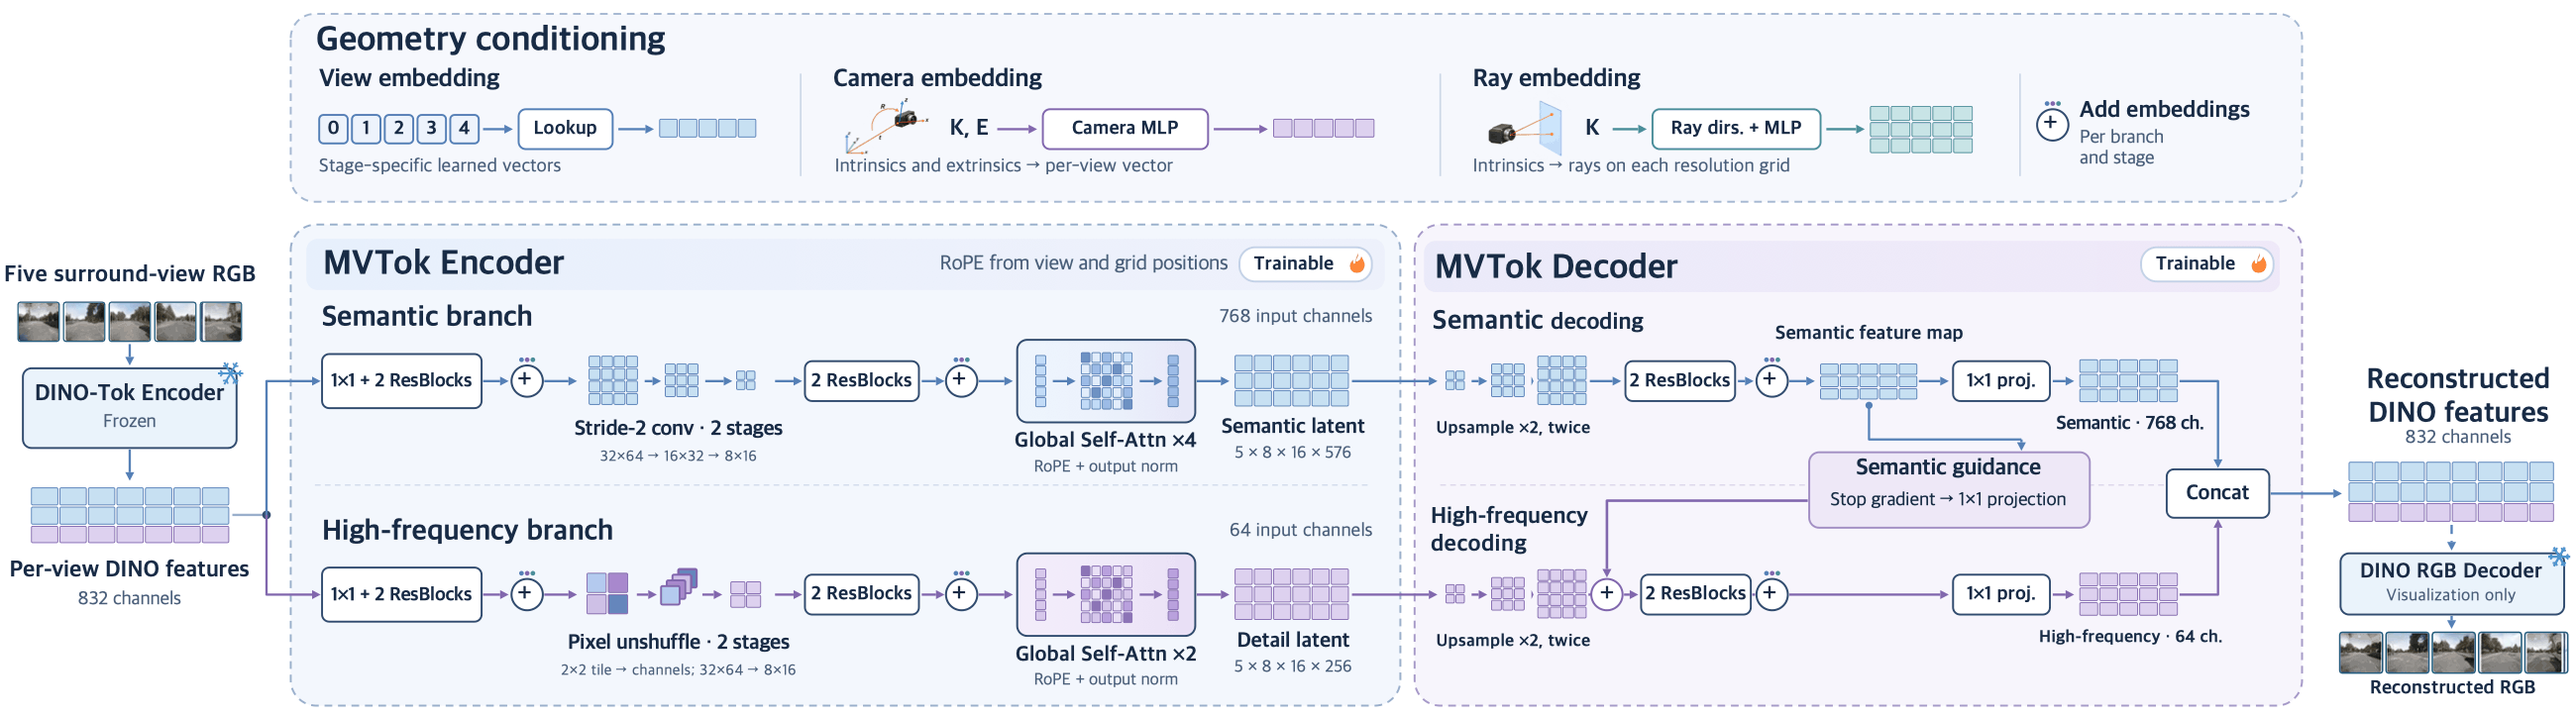
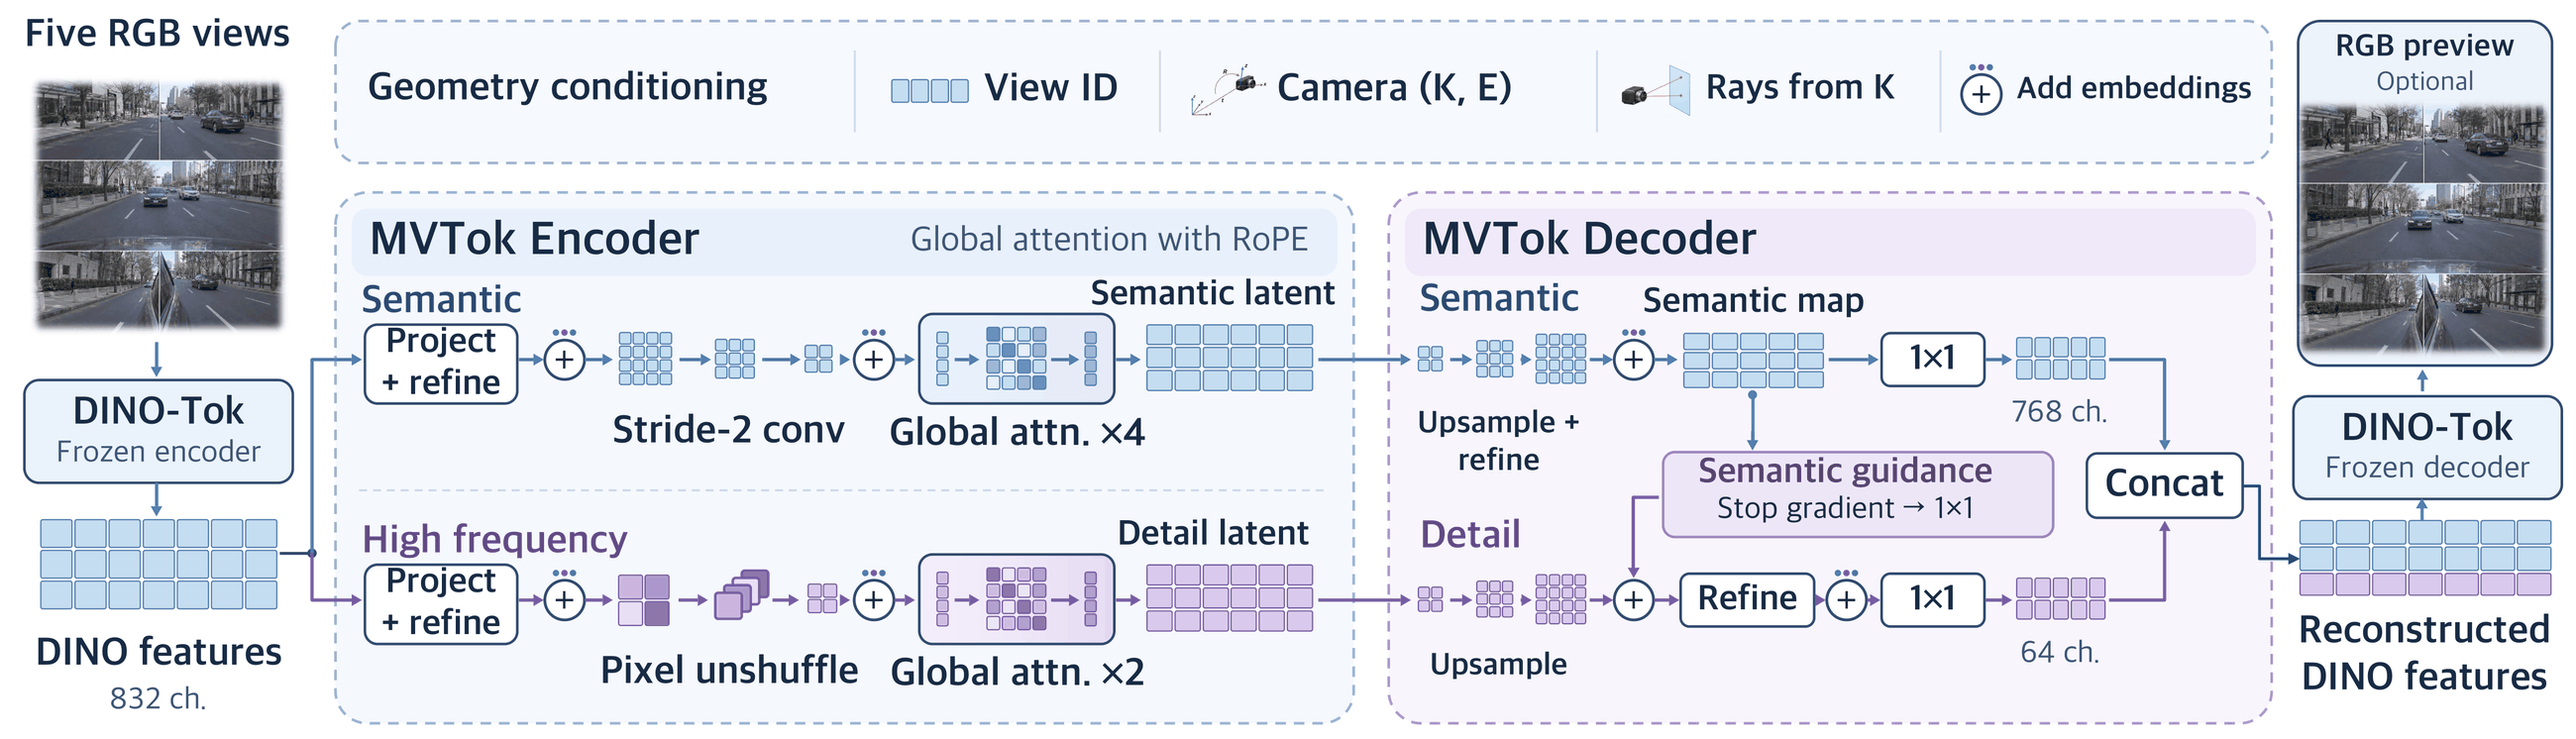
Update author credits and architecture figures, captions and mobile layout

Changed region(s): [[0.0, 0.0, 1.0, 1.0], [0.5608, 0.9697, 0.8723, 1.0], [0.0312, 0.9394, 0.0935, 0.9697]]

diff --git a/app/publication.ts b/app/publication.ts
@@ -3,34 +3,37 @@ export const paperTitle = 'Recipes for Training and Deploying World-Action Model
 export const affiliations = {
   1: 'Horizon Robotics',
   2: 'Nanjing University of Posts and Telecommunications',
-  3: 'Nankai University',
-  4: 'The Hong Kong University of Science and Technology',
-  5: 'Shanghai Innovation Institute',
-  6: 'Institut Polytechnique de Paris',
-  7: 'National University of Singapore',
-  8: 'Nanjing University',
-  9: 'Hunan University',
-  10: 'Anyverse',
-  11: 'LogicOrigin',
+  3: 'LogicOrigin',
+  4: 'Nankai University',
+  5: 'The Hong Kong University of Science and Technology',
+  6: 'Shanghai Innovation Institute',
+  7: 'Institut Polytechnique de Paris',
+  8: 'National University of Singapore',
+  9: 'Nanjing University',
+  10: 'Hunan University',
+  11: 'Anyverse',
 } as const;
 
-export type Author = { name: string; homepage?: string; affiliations: (keyof typeof affiliations)[] };
+export type Author = {
+  name: string; homepage?: string; affiliations: (keyof typeof affiliations)[];
+  role?: 'Core contributor' | 'Project leader'; coFirst?: boolean;
+};
 export const authors: Author[] = [
-  { name: 'Mingxiao Li', affiliations: [1], homepage: 'https://lmx760581375.github.io/' },
-  { name: 'Zhijian Shu', affiliations: [1, 2], homepage: 'https://garlicba.github.io/' },
-  { name: 'Jiawei Xu', affiliations: [1, 3], homepage: 'https://jiaweixu8.github.io/' },
-  { name: 'Mingkai Jia', affiliations: [1, 4], homepage: 'https://github.com/MKJia' },
-  { name: 'Alan Liang', affiliations: [1, 5], homepage: 'https://alanliangc.github.io/' },
-  { name: 'Zhizhou Zhong', affiliations: [1, 4], homepage: 'https://github.com/zzzweakman' },
-  { name: 'Shiyao Li', affiliations: [1, 6], homepage: 'https://shiyao-li.github.io/' },
-  { name: 'Dongyue Lu', affiliations: [1, 7], homepage: 'https://dylanorange.github.io/' },
-  { name: 'Liang Yue', affiliations: [1, 8], homepage: 'https://philip-2000.github.io/cv/' },
-  { name: 'Zeyuan Xu', affiliations: [9], homepage: 'https://scholar.google.com/citations?user=CSfCTQ4AAAAJ&hl=zh-CN' },
-  { name: 'Kaicheng Zhang', affiliations: [10], homepage: 'https://openreview.net/profile?id=~Kaicheng_Zhang8' },
-  { name: 'Xiao-Xiao Long', affiliations: [8], homepage: 'https://www.xxlong.site/' },
-  { name: 'Lingdong Kong', affiliations: [7], homepage: 'https://ldkong.com/' },
-  { name: 'Qian Zhang', affiliations: [1], homepage: 'https://scholar.google.com/citations?user=pCY-bikAAAAJ&hl=zh-CN' },
-  { name: 'Wei Yin', affiliations: [11], homepage: 'https://scholar.google.com/citations?user=ZIf_rtcAAAAJ&hl=en' },
+  { name: 'Mingxiao Li', affiliations: [1], role: 'Core contributor', coFirst: true, homepage: 'https://lmx760581375.github.io/' },
+  { name: 'Zhijian Shu', affiliations: [1, 2], role: 'Core contributor', coFirst: true, homepage: 'https://garlicba.github.io/' },
+  { name: 'Wei Yin', affiliations: [3], role: 'Core contributor', coFirst: true, homepage: 'https://scholar.google.com/citations?user=ZIf_rtcAAAAJ&hl=en' },
+  { name: 'Jiawei Xu', affiliations: [1, 4], role: 'Core contributor', coFirst: true, homepage: 'https://jiaweixu8.github.io/' },
+  { name: 'Mingkai Jia', affiliations: [1, 5], role: 'Core contributor', coFirst: true, homepage: 'https://github.com/MKJia' },
+  { name: 'Alan Liang', affiliations: [1, 6], role: 'Core contributor', coFirst: true, homepage: 'https://alanliangc.github.io/' },
+  { name: 'Zhizhou Zhong', affiliations: [1, 5], role: 'Core contributor', coFirst: true, homepage: 'https://github.com/zzzweakman' },
+  { name: 'Shiyao Li', affiliations: [1, 7], role: 'Core contributor', homepage: 'https://shiyao-li.github.io/' },
+  { name: 'Dongyue Lu', affiliations: [1, 8], role: 'Core contributor', homepage: 'https://dylanorange.github.io/' },
+  { name: 'Liang Yue', affiliations: [1, 9], homepage: 'https://philip-2000.github.io/cv/' },
+  { name: 'Zeyuan Xu', affiliations: [10], homepage: 'https://scholar.google.com/citations?user=CSfCTQ4AAAAJ&hl=zh-CN' },
+  { name: 'Kaicheng Zhang', affiliations: [11], homepage: 'https://openreview.net/profile?id=~Kaicheng_Zhang8' },
+  { name: 'Xiao-Xiao Long', affiliations: [9], homepage: 'https://www.xxlong.site/' },
+  { name: 'Lingdong Kong', affiliations: [8], homepage: 'https://ldkong.com/' },
+  { name: 'Qian Zhang', affiliations: [1], role: 'Project leader', homepage: 'https://scholar.google.com/citations?user=pCY-bikAAAAJ&hl=zh-CN' },
 ];
 
 export const resources: { label: string; href?: string }[] = [

diff --git a/app/architecture-modules.tsx b/app/architecture-modules.tsx
@@ -1,0 +1,61 @@
+export const architectureModules = [
+  {
+    id: 'nav-encoder', title: 'Navi Encoder',
+    node: { x: 248, y: 310, width: 143, height: 26 },
+    figures: [
+      {
+        path: 'research/nav-encoder.png', width: 2600, height: 789,
+        heading: 'Encoder architecture',
+        alt: 'Waypoint, road-link and speed-limit branches feed a shared attention layer and navigation projector.',
+        caption: 'Three branches encode waypoints, road links with maneuver and lane attributes, and speed limits. Self-attention combines their outputs, and a projector produces nine navigation tokens per frame.',
+      },
+      {
+        path: 'research/navi-pretrain.png', width: 2600, height: 1146,
+        heading: 'Pretraining pipeline',
+        alt: 'Navigation pretraining with teacher-generated instructions, a frozen language model and an auxiliary reconstruction decoder.',
+        caption: 'An offline teacher rewrites each route record as a driving instruction. We train the encoder and projector so a frozen language model can generate that instruction from the navigation tokens. An auxiliary decoder recovers road geometry, lane guidance and speed limits. After pretraining, EponaX keeps the encoder and projector frozen.',
+      },
+    ],
+  },
+  {
+    id: 'dino-tok', title: 'DINO-Tok',
+    node: { x: 506, y: 345, width: 319, height: 26 },
+    figures: [{
+      path: 'research/dino-tok.png', width: 2600, height: 1256,
+      paperUrl: 'https://arxiv.org/pdf/2511.20565v2',
+      alt: 'DINO-Tok combines deep semantic features and projected texture features for image reconstruction. The lower panels detail the autoencoder and vector quantization stages.',
+      caption: 'DINO-Tok combines deep DINO features that capture scene semantics with shallow features that preserve texture for image reconstruction. EponaX uses the frozen encoder for all six cameras and sends the five surround views to the Multi-View Encoder for further compression.',
+    }],
+  },
+  {
+    id: 'mvtok', title: 'Multi-View Encoder',
+    node: { x: 651, y: 308, width: 174, height: 26 },
+    figures: [{
+      path: 'research/mvtok-details.png?v=d0f75ef426', width: 2600, height: 746,
+      alt: 'Two geometry-aware branches compress features from five surround cameras. During training, the semantic decoder also guides the reconstruction of fine detail.',
+      caption: <>
+        <p>
+          The Multi-View Encoder achieves <strong>16× spatial compression</strong>, reducing 10,240 DINO-Tok feature positions from the five surround cameras to 640 tokens.
+          Two branches use camera geometry to combine information across views. One captures scene semantics and the other preserves fine visual detail. Each output token contains features from both branches.
+        </p>
+        <p>
+          During MVTok pretraining, the decoder reconstructs the original DINO-Tok features from these tokens.
+          EponaX uses only the frozen MVTok encoder and computes its future surround-view prediction loss directly on the 640 compressed tokens.
+        </p>
+      </>,
+    }],
+  },
+  {
+    id: 'walt', title: 'WALT',
+    node: { x: 887, y: 2, width: 340, height: 503.5 },
+    figures: [{
+      path: 'research/walt.png?v=3ddd07c2d1', width: 2600, height: 1059,
+      paperUrl: 'https://arxiv.org/pdf/2609.30436',
+      alt: 'WALT first combines semantic and geometry features to reconstruct a trajectory. In Stage 2, only the trajectory planner is trainable. It takes world state tokens as input and sends predicted latents to a frozen trajectory decoder.',
+      caption: [
+        'EponaX uses WALT to represent a six-second trajectory with ten latent tokens. During WALT pretraining, the semantic branch learns to align its features with the state tokens of a frozen driving world model, while the geometry branch preserves the shape of the path. The decoder combines features from both branches to reconstruct the recorded trajectory.',
+        'In EponaX, TrajLoop is the trajectory planner shown in Stage 2. It uses features from the EponaX backbone to refine ten trajectory tokens over five steps. The frozen WALT decoder then turns those tokens into 60 waypoints.',
+      ],
+    }],
+  },
+];

diff --git a/app/pipeline.css b/app/pipeline.css
@@ -113,6 +113,14 @@
   align-items: center; gap: clamp(16px, 2vw, 30px);
 }
 .module-detail figcaption { color: var(--text); font-size: 1rem; line-height: var(--reading-leading); }
+.module-detail figcaption p { margin: 0; }
+.module-detail figcaption p + p { margin-top: .75em; }
+.module-caption-title { display: block; margin-bottom: .35em; color: var(--blue); }
+.module-paper-link {
+  display: block; width: fit-content; margin-top: 8px;
+  color: var(--blue); font-size: .875rem; text-underline-offset: .16em;
+}
+.module-paper-link:is(:hover, :focus-visible) { text-decoration: underline; }
 .module-image {
   display: block; min-width: 0; overflow: hidden; border: 1px solid var(--module-line); border-radius: 5px;
   padding: clamp(4px, .6vw, 8px); background: white; cursor: zoom-in;
@@ -129,13 +137,15 @@
   100% { opacity: 0; stroke-dashoffset: -100; }
 }
 .architecture-conclusion { max-width: 76ch; margin: clamp(22px, 2.4vw, 34px) 0 0; line-height: 1.6; }
+@media (max-width: 960px) {
+  .module-detail { grid-template-columns: minmax(0, 1fr); gap: 10px; }
+}
 @media (max-width: 670px) {
   .flow-ink { stroke-width: 3.4; }
   .flow-halo { stroke-width: 9; }
   .module-choices button { font-size: .84rem; }
-  .module-detail { grid-template-columns: 1fr; gap: 10px; }
 }
-@media (max-width: 370px) {
+@media (max-width: 600px) {
   .module-choices { grid-template-columns: repeat(2, minmax(0, 1fr)); }
 }
 @media (prefers-reduced-motion: reduce) {

diff --git a/app/HeroCover.tsx b/app/HeroCover.tsx
@@ -11,15 +11,13 @@ export function HeroCover() {
       </div>
       <div className="publication-byline">
         <ul className="publication-authors" aria-label="Authors">
-          {authors.map(({ name, homepage, affiliations: units }, index) => {
-            const leader = name === 'Qian Zhang';
-            const contributor = index < 8 || name === 'Wei Yin';
-            const role = leader ? 'Project leader' : contributor ? 'Core contributor' : undefined;
+          {authors.map(({ name, homepage, affiliations: units, role, coFirst }) => {
+            const leader = role === 'Project leader';
             return <li key={name} aria-describedby={units.map(id => `affiliation-${id}`).join(' ')}>
               {homepage ? <a href={homepage} target="_blank" rel="noreferrer">{name}</a> : name}
               <sup className="affiliation-mark" aria-hidden="true">{units.join(',')}</sup>
               {role && <sup className={leader ? 'role-mark leader-mark' : 'role-mark'} aria-label={role}>{leader ? '‡' : '*'}</sup>}
-              {index < 6 && <sup className="co-first-mark" aria-label="Co-first author">†</sup>}
+              {coFirst && <sup className="co-first-mark" aria-label="Co-first author">†</sup>}
             </li>;
           })}
         </ul>

diff --git a/app/AttentionStudy.tsx b/app/AttentionStudy.tsx
@@ -314,7 +314,7 @@ export function AttentionStudy({ budget, optionalVideos }: { budget: DriveBandwi
         <PreloadedClips.Provider value={clips}>{groups.map(group => <AttentionRow key={group.id} group={group}
           reduced={reduced} fullscreenElement={fullscreenElement}/>)}</PreloadedClips.Provider>
       </div>
-      <p className="attention-conclusion">EponaX pays close attention to key cues for trajectory planning, including obstacles, pedestrians, traffic lights and lane markings. <strong>We observe this attention pattern after scaling EponaX.</strong></p>
+      <p className="attention-conclusion">EponaX pays close attention to key cues for trajectory planning, including obstacles, pedestrians, traffic lights and lane markings. <strong>We see this attention pattern after scaling up both the driving dataset and the training compute budget.</strong></p>
     </div>
   </section>;
 }

diff --git a/app/PaperFigures.tsx b/app/PaperFigures.tsx
@@ -51,7 +51,15 @@ function ModuleDetails({ nearby, active, select }: { nearby: boolean; active: nu
               onLoad={() => noteLoadedChapterImage(figure.path)}
               width={figure.width} height={figure.height} alt={figure.alt}/>
           </a>
-          <figcaption>{figure.caption}</figcaption>
+          <figcaption>
+            {'heading' in figure && <strong className="module-caption-title">{figure.heading}</strong>}
+            {Array.isArray(figure.caption)
+              ? figure.caption.map(paragraph => <p key={paragraph}>{paragraph}</p>)
+              : figure.caption}
+            {'paperUrl' in figure && <a className="module-paper-link" href={figure.paperUrl} target="_blank" rel="noreferrer">
+              More details in the paper <span aria-hidden="true">↗</span>
+            </a>}
+          </figcaption>
         </figure>)}
       </div>)}
     </div>
